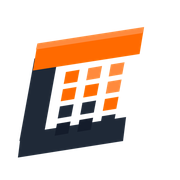
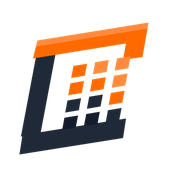
브랜드 로고 v5 정밀 보정 — 브랜드 가이드 근접도 향상
- 오렌지 빔을 상단+우상단 코너를 감싸는 형태로 (ㄱ자)
- 네이비 프레임 라인 정돈, LED 픽셀 3×4 균일 정렬·대각선 그라데이션
- BrandLogo 컴포넌트 좌표 갱신, favicon/앱아이콘 재생성

Changed region(s): [[0.0833, 0.1111, 0.8333, 0.8889]]

diff --git a/apps/web/src/components/brand/BrandLogo.tsx b/apps/web/src/components/brand/BrandLogo.tsx
@@ -1,9 +1,9 @@
 import { SITE } from '@/lib/seo/site'
 
 /**
- * 우강테크 / WOOKANG TECH 브랜드 심볼 (v4, 2026-07 · flat isometric)
- * - 브랜드 가이드의 비스듬한(아이소메트릭) 열린 프레임을 평면 색면으로 구현
- * - 오렌지(#FF6A00/#FF8A3D)는 고정, 네이비 프레임/픽셀은 `currentColor` → 배경 자동 적응
+ * 우강테크 / WOOKANG TECH 브랜드 심볼 (v5, 2026-07 · flat isometric)
+ * - 브랜드 가이드의 비스듬한(아이소메트릭) 열린 프레임: 상단+우측 오렌지 빔, 네이비 좌하 프레임, LED 픽셀 그리드
+ * - 오렌지(#FF6A00/#FF8A3D)는 고정, 네이비는 `currentColor` → 배경(라이트/다크) 자동 적응
  * - 원본 벡터: public/brand/logo-symbol.svg (Codex 제작 · COO 검수)
  */
 export function BrandMark({ size = 32, className = '' }: { size?: number; className?: string }) {
@@ -19,24 +19,24 @@ export function BrandMark({ size = 32, className = '' }: { size?: number; classN
       aria-label="우강테크 심볼"
     >
       {/* 네이비 열린 프레임 (좌측 사선획 + 하단획) — currentColor 적응 */}
-      <path d="M23 39 L39 36 L29 91 L13 94 Z" fill="currentColor" />
-      <path d="M14 89 L84 78 L82 94 L12 105 Z" fill="currentColor" />
-      {/* 오렌지 상단 빔 */}
-      <path d="M25 29 L96 18 L93 36 L22 47 Z" fill="#FF6A00" />
-      <path d="M25 29 L96 18 L95 22 L24 33 Z" fill="#FF8A3D" />
-      {/* LED 픽셀 3×4 — 아이소 평면, 위 오렌지 → 아래 네이비 */}
-      <path d="M44 48 L53 46.5 L51.5 54.5 L42.5 56 Z" fill="#FF6A00" />
-      <path d="M59 45.5 L68 44 L66.5 52 L57.5 53.5 Z" fill="#FF8A3D" />
-      <path d="M74 43 L83 41.5 L81.5 49.5 L72.5 51 Z" fill="#FF8A3D" />
-      <path d="M42 59.5 L51 58 L49.5 66 L40.5 67.5 Z" fill="#FF6A00" />
-      <path d="M57 57 L66 55.5 L64.5 63.5 L55.5 65 Z" fill="#FF6A00" />
-      <path d="M72 54.5 L81 53 L79.5 61 L70.5 62.5 Z" fill="#FF8A3D" />
-      <path d="M40 71 L49 69.5 L47.5 77.5 L38.5 79 Z" fill="currentColor" />
-      <path d="M55 68.5 L64 67 L62.5 75 L53.5 76.5 Z" fill="currentColor" />
-      <path d="M70 66 L79 64.5 L77.5 72.5 L68.5 74 Z" fill="#FF6A00" />
-      <path d="M38 82.5 L47 81 L45.5 89 L36.5 90.5 Z" fill="currentColor" opacity="0.72" />
-      <path d="M53 80 L62 78.5 L60.5 86.5 L51.5 88 Z" fill="currentColor" opacity="0.72" />
-      <path d="M68 77.5 L77 76 L75.5 84 L66.5 85.5 Z" fill="currentColor" />
+      <path d="M24 38 L37 36 L27 89 L14 91 Z" fill="currentColor" />
+      <path d="M15 90 L84 79 L82 92 L13 103 Z" fill="currentColor" />
+      {/* 오렌지 빔 (상단 + 우상단 코너) */}
+      <path d="M25 27 L99 15 L95 38 L82 40 L84 29 L22 39 Z" fill="#FF6A00" />
+      <path d="M25 27 L99 15 L98.25 19 L24.25 31 Z" fill="#FF8A3D" />
+      {/* LED 픽셀 3×4 — 위 오렌지 → 아래 네이비 대각선 */}
+      <path d="M49 44 L58 42.5 L56.5 50.5 L47.5 52 Z" fill="#FF6A00" />
+      <path d="M63.5 41.5 L72.5 40 L71 48 L62 49.5 Z" fill="#FF8A3D" />
+      <path d="M78 39 L87 37.5 L85.5 45.5 L76.5 47 Z" fill="#FF8A3D" />
+      <path d="M47 55.5 L56 54 L54.5 62 L45.5 63.5 Z" fill="#FF6A00" />
+      <path d="M61.5 53 L70.5 51.5 L69 59.5 L60 61 Z" fill="#FF6A00" />
+      <path d="M76 50.5 L85 49 L83.5 57 L74.5 58.5 Z" fill="#FF8A3D" />
+      <path d="M45 67 L54 65.5 L52.5 73.5 L43.5 75 Z" fill="currentColor" />
+      <path d="M59.5 64.5 L68.5 63 L67 71 L58 72.5 Z" fill="currentColor" />
+      <path d="M74 62 L83 60.5 L81.5 68.5 L72.5 70 Z" fill="#FF6A00" />
+      <path d="M43 78.5 L52 77 L50.5 85 L41.5 86.5 Z" fill="currentColor" opacity="0.72" />
+      <path d="M57.5 76 L66.5 74.5 L65 82.5 L56 84 Z" fill="currentColor" opacity="0.72" />
+      <path d="M72 73.5 L81 72 L79.5 80 L70.5 81.5 Z" fill="currentColor" />
     </svg>
   )
 }
